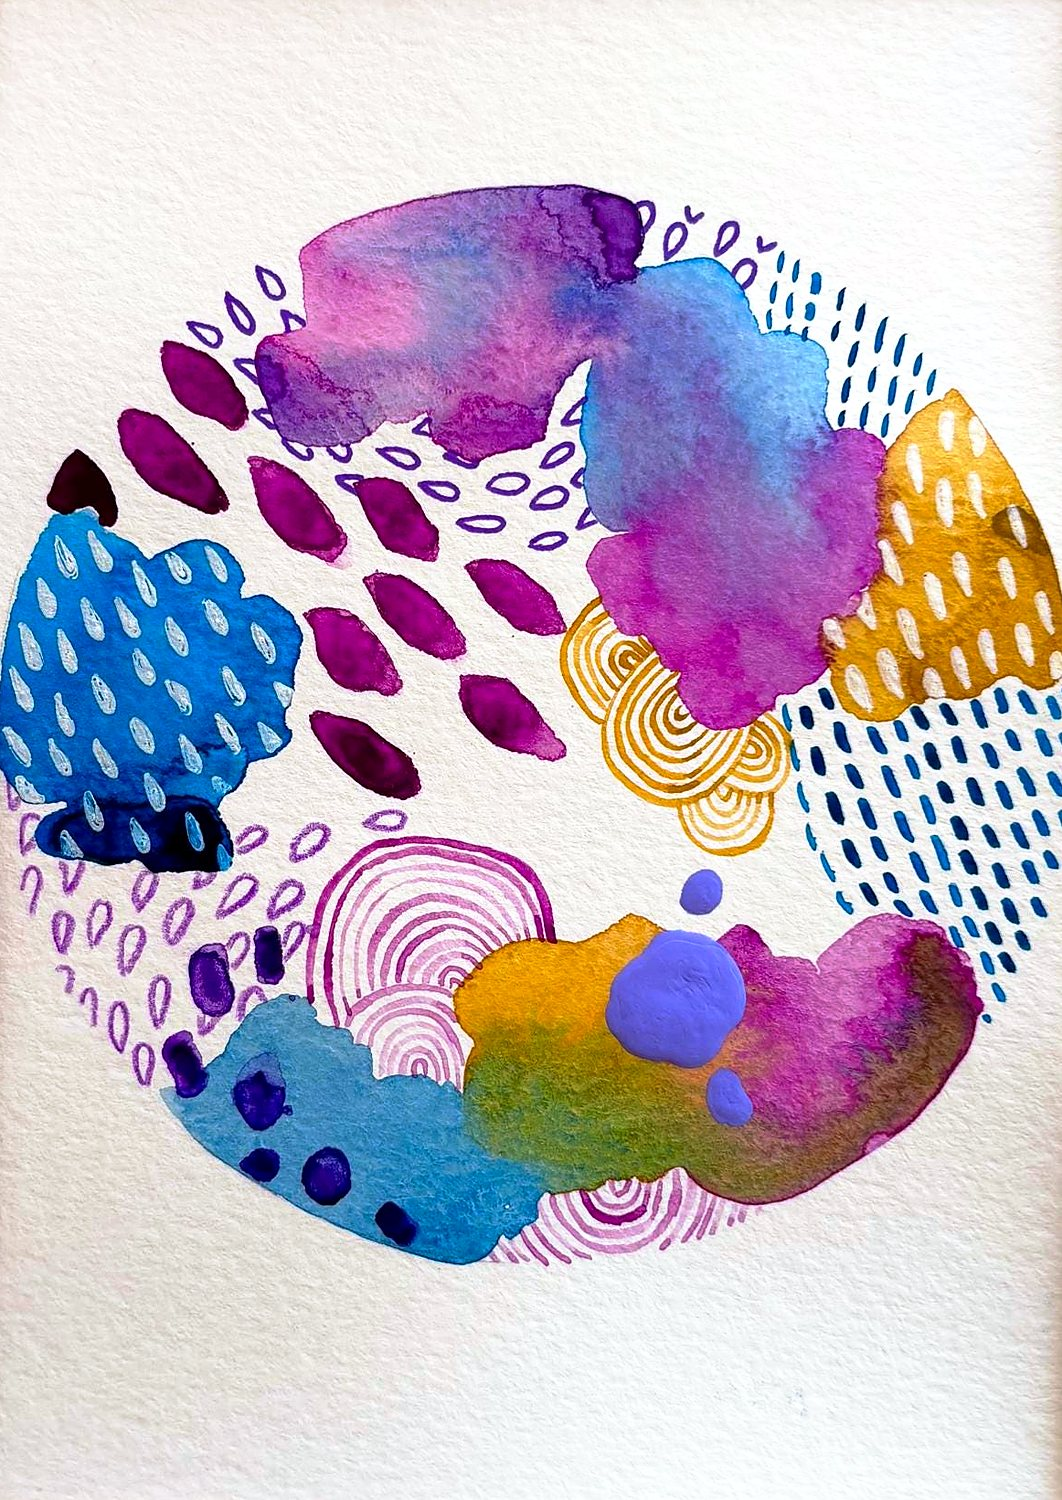
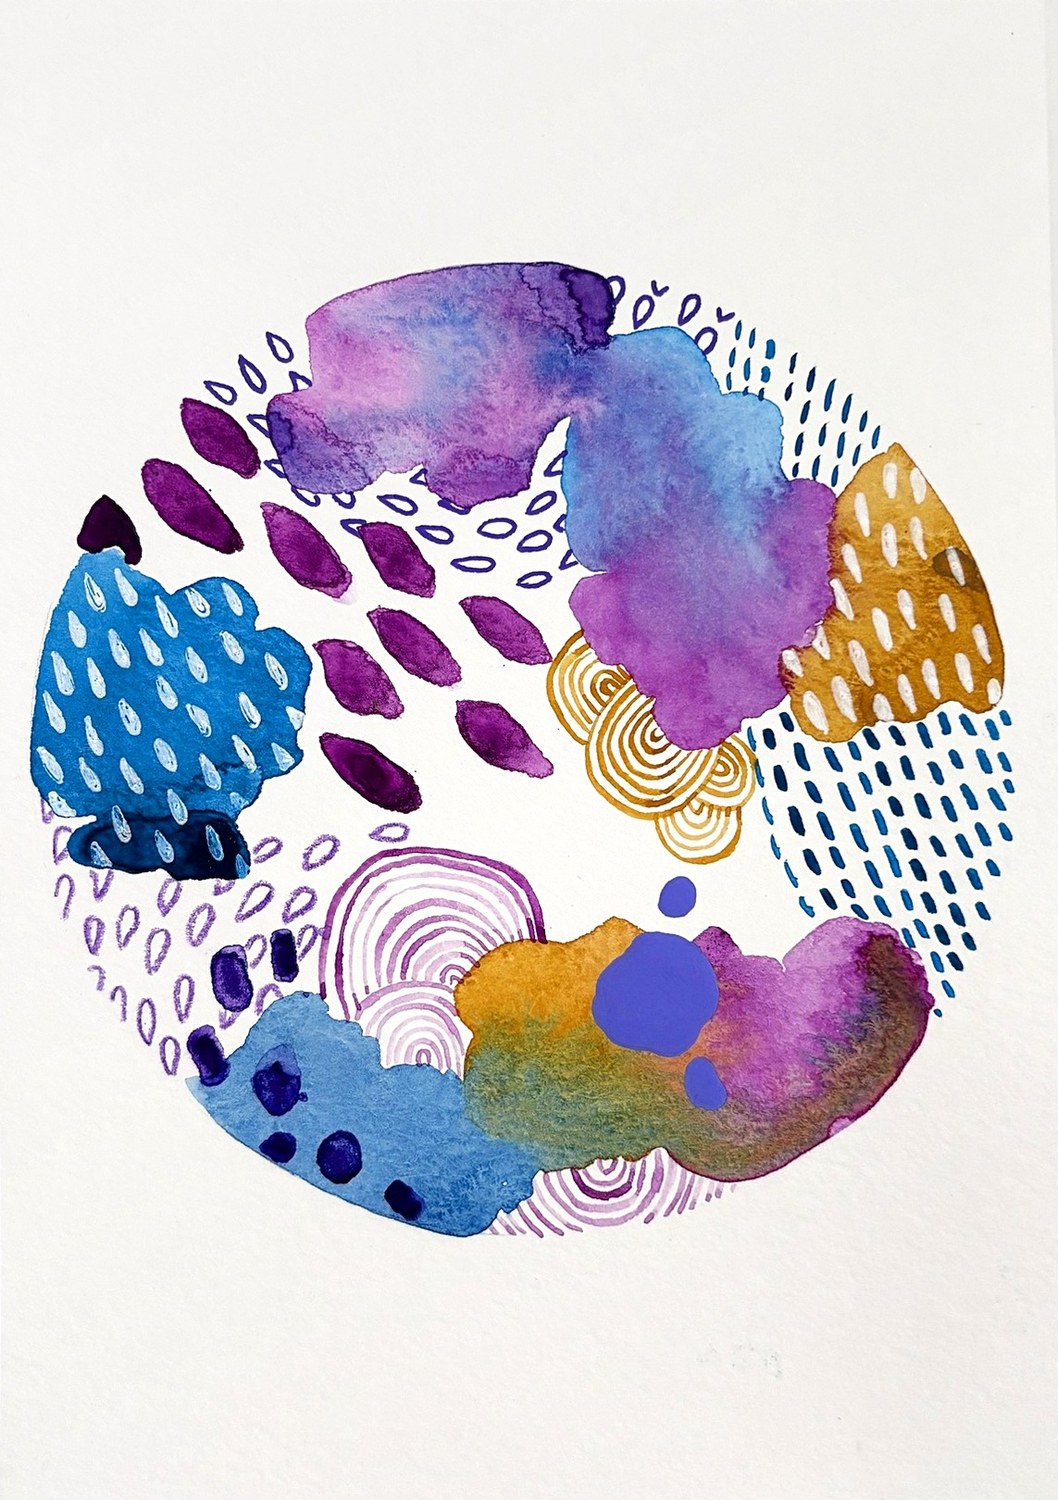
Purple Hues: new colour-corrected photos with light oak dresser; replace old Etsy photos
Claude-Session: https://claude.ai/code/session_01XKp1RWTHCKMFYA4zME3iiX

diff --git a/public/app.js b/public/app.js
@@ -342,7 +342,19 @@ function demoArtworks() {
   ];
   // Listing photo set for every piece: the piece, in its mat, on the sideboard, on the gallery wall,
   // the collection grid, and Alexandra's own framed photo. Room photos are free Unsplash photos.
-  const listingGallery = (slug) => [
+  // Pieces with Alexandra's own new photos (colour-corrected, light oak dresser)
+  const customGallery = {
+    'purple-hues-circular': [
+      { src: '/art/purple-hues-circular-photo1.jpg', fill: true },
+      { src: '/art/purple-hues-circular-photo2.jpg', fill: true },
+      { src: '/art/purple-hues-circular-photo3.jpg', fill: true },
+      { src: '/art/purple-hues-circular-photo4.jpg', fill: true },
+      { src: '/art/purple-hues-circular.jpg' },
+      { src: '/art/purple-hues-circular-gallery-wall.jpg', mock: true, fill: true },
+      { src: '/art/collection-grid.jpg', fill: true },
+    ],
+  };
+  const listingGallery = (slug) => customGallery[slug] || [
     { src: `/art/${slug}.jpg` },
     { src: `/art/${slug}-matted.jpg`, fill: true },
     { src: `/art/${slug}-sideboard.jpg`, mock: true, fill: true },
@@ -361,7 +373,7 @@ function demoArtworks() {
     const medium = extra.medium || (shape === 'landscape' ? 'Watercolour landscape' : `Watercolour · ${shape}`);
     return {
       id: slug, title, collection: 'intuitive-abstracts', currency: 'cad', sold: false, url: '#', year: '',
-      thumb: `/art/${slug}-sm.jpg`, art: `/art/${slug}.jpg`, image: `/art/${slug}-styled.jpg`,
+      thumb: `/art/${slug}-sm.jpg`, art: `/art/${slug}.jpg`, image: customGallery[slug] ? customGallery[slug][0].src : `/art/${slug}-styled.jpg`,
       gallery: listingGallery(slug),
       medium, dimensions: d.dimensions, price: d.price,
       description: descriptions[slug] || {
